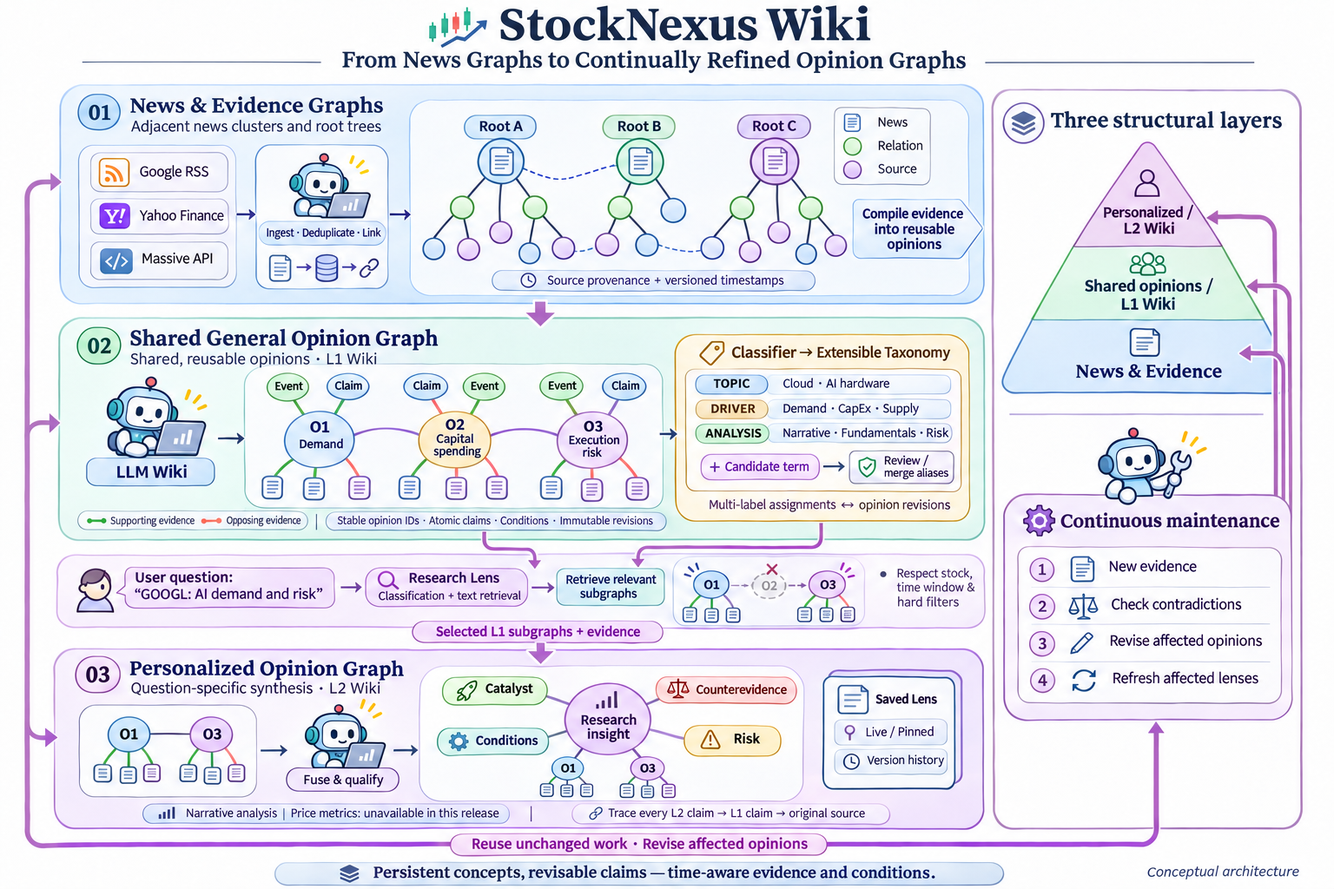
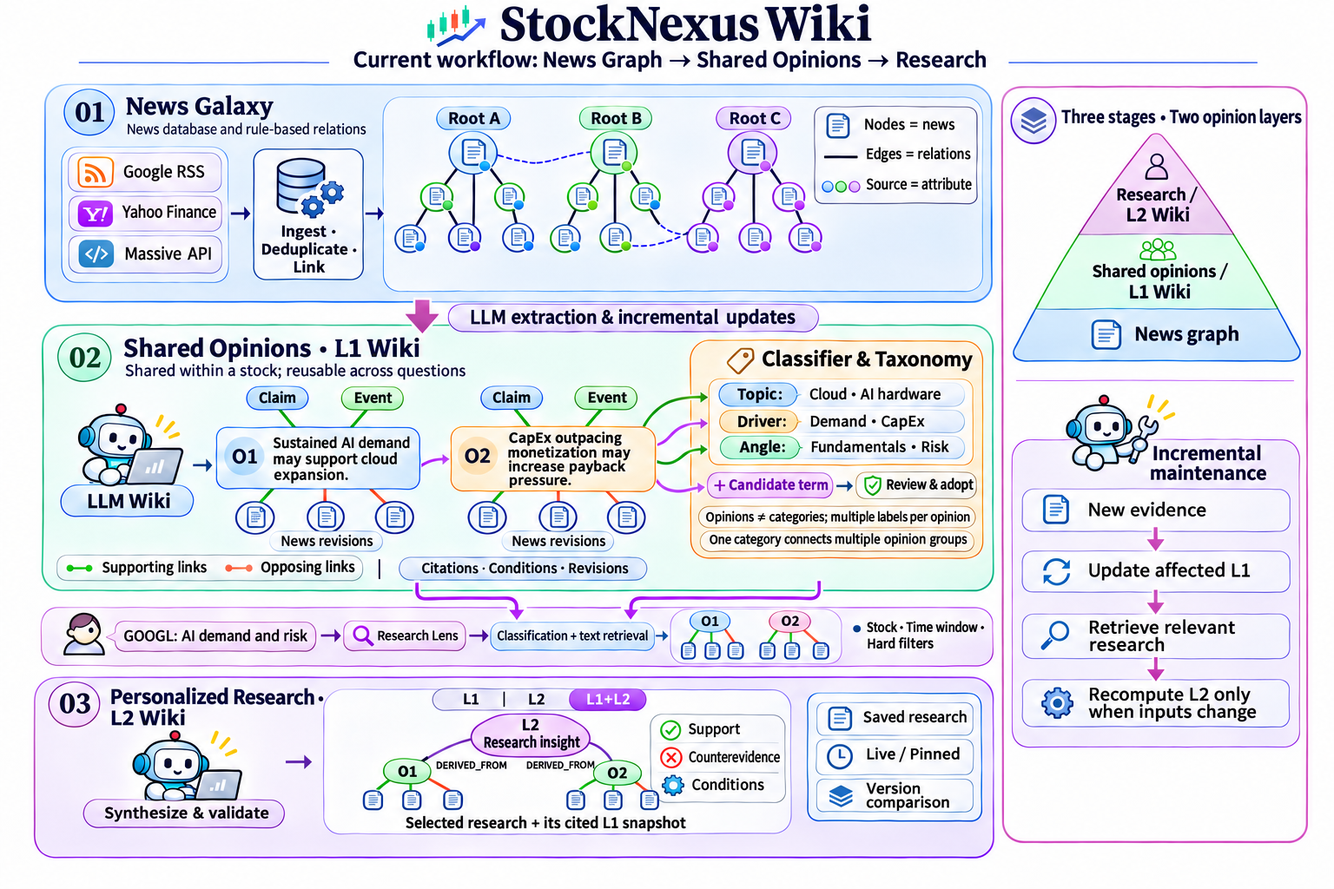
Explain cross-stock research blocking and simplify workflow diagrams

diff --git a/dist/research-view.js b/dist/research-view.js
@@ -9,7 +9,7 @@
  const open=node('button','研究問題 · L2');open.type='button';open.onclick=()=>show();open.id='researchOpen';$('wikiPanel').querySelector('.wiki-header').append(open);
  const panel=node('section',undefined,'research-panel');panel.id='researchPanel';panel.hidden=true;
  panel.innerHTML=`<button type="button" id="researchBack">← L1 整理設定</button><h2>我的研究</h2><p id="researchStock"></p>
- <form id="researchForm"><label for="researchQuestion">你想研究什麼？</label><input id="researchQuestion" required maxlength="2000" placeholder="例如：資料中心需求對獲利的影響" autocomplete="off"><label for="researchWindow">觀察期間</label><select id="researchWindow"><option value="30">最近 30 日</option><option value="90">最近 90 日</option><option value="365">最近一年</option></select><small id="researchModel"></small><span id="researchSubmitWrap" tabindex="0"><button id="researchSubmit" class="wiki-primary">建立研究</button></span><div id="researchBusyTip" class="wiki-tip" role="tooltip" hidden></div></form>
+ <form id="researchForm"><label for="researchQuestion">你想研究什麼？</label><input id="researchQuestion" required maxlength="2000" placeholder="例如：資料中心需求對獲利的影響" autocomplete="off"><label for="researchWindow">觀察期間</label><select id="researchWindow"><option value="30">最近 30 日</option><option value="90">最近 90 日</option><option value="365">最近一年</option></select><small id="researchModel"></small><div id="researchAvailability" class="research-meta" role="status" aria-live="polite" hidden><span id="researchAvailabilityText"></span><div id="researchBlockers" hidden></div></div><span id="researchSubmitWrap" tabindex="0"><button id="researchSubmit" class="wiki-primary">建立研究</button></span><div id="researchBusyTip" class="wiki-tip" role="tooltip" hidden></div></form>
  <p id="researchStatus" role="status" aria-live="polite"></p><h3>已保存的研究</h3><div id="researchSaved"></div><details><summary>觀點分類</summary><div id="researchTaxonomy"></div></details>`;
  $('wikiControls').prepend(panel);
  const result=node('section',undefined,'research-result');result.id='researchResult';result.hidden=true;$('wikiLower').prepend(result);
@@ -17,16 +17,27 @@
  const layerMessage=(text,working=false,retry=false)=>{layerText.textContent=text;layerStatus.hidden=!text;layerStatus.setAttribute('aria-busy',String(working));layerText.classList.toggle('research-working',working);layerRetry.hidden=!retry;};
  let layerRequest=0,runRequest=0;
  let stock='',serial=0,runId=null,timer=null,availabilityTimer=null,tipTimer=null,busy=false,submitting=false,lastAvailability=null;
- const pending=new Map();let watching=null;
+ const pending=new Map(),drafts=new Map();let watching=null,availabilityError='',checking=false,availabilityRequest=0;
+ function rememberDraft(){if(stock)drafts.set(stock,{question:$('researchQuestion').value,window:$('researchWindow').value});}
  const status=text=>{$('researchStatus').textContent=text;};
  async function api(path,body){const r=await fetch('/api/wiki/research/'+path+(body===undefined?(path.includes('?')?'&':'?')+'instrument='+encodeURIComponent(stock):''),body===undefined?{}:{method:'POST',headers:{'Content-Type':'application/json'},body:JSON.stringify({...body,instrument:stock})});const v=await r.json();if(!r.ok)throw Error(v.error||'研究請求失敗');return v;}
  function clearTip(){clearTimeout(tipTimer);$('researchBusyTip').hidden=true;}
- function explain(){clearTip();if(busy)tipTimer=setTimeout(()=>{if(!busy)return;$('researchBusyTip').textContent='請先停止 L1 資料補足，再開始進階觀點分析。已保存的 L2 仍可閱讀。'+(lastAvailability?.instruments?.length?' 整理中：'+lastAvailability.instruments.join('、'):'');$('researchBusyTip').hidden=false;},550);}
+ function busyReason(){return availabilityError?'無法確認模型狀態，正在重新連線…':checking?'正在確認模型狀態…':busy?'L1 整理中：'+(lastAvailability?.instruments?.join('、')||'其他工作')+'。共用模型目前忙碌；完成或停止後即可建立研究。':'';}
+ function explain(){clearTip();if(busy&&!availabilityError&&!checking)tipTimer=setTimeout(()=>{if(!busy)return;$('researchBusyTip').textContent=busyReason()+' 可先停止 L1 資料補足；已保存的 L2 仍可閱讀。';$('researchBusyTip').hidden=false;},550);}
  for(const ev of ['pointerenter','focusin'])$('researchSubmitWrap').addEventListener(ev,explain);
  for(const ev of ['pointerleave','focusout'])$('researchSubmitWrap').addEventListener(ev,clearTip);
  $('researchSubmitWrap').addEventListener('keydown',e=>{if(e.key==='Escape')clearTip();});
- function syncButton(){ $('researchSubmit').setAttribute('aria-busy',String(submitting));$('researchSubmit').disabled=busy||submitting;$('researchSubmit').textContent=submitting?'分析中…':'建立研究';$('researchSubmit').classList.toggle('research-working',submitting);$('researchSubmitWrap').setAttribute('aria-describedby','researchBusyTip');if(!busy)clearTip();}
- async function availability(){const token=serial;try{const a=await api('availability');if(token!==serial)return;lastAvailability=a;busy=a.busy;if(a.active_job&&!pending.has(stock))pending.set(stock,a.active_job.id);if(pending.has(stock)&&watching!==pending.get(stock))track(pending.get(stock),token);syncButton();}catch(e){if(token!==serial)return;busy=true;syncButton();status(e.message);}finally{if(token===serial&&!panel.hidden)availabilityTimer=setTimeout(availability,2000);}}
+ function availabilityMessage(){
+  const message=busyReason(),box=$('researchAvailability');box.hidden=!message;$('researchAvailabilityText').textContent=message;box.setAttribute('aria-busy',String(checking));box.classList.toggle('research-working',checking);
+  const links=$('researchBlockers'),targets=busy&&!checking&&!availabilityError?(lastAvailability?.instruments||[]):[],stamp=targets.join('|')+(availabilityError?'error':'');
+  if(links.dataset.state!==stamp){links.dataset.state=stamp;links.replaceChildren();
+   for(const target of targets)links.append(button('查看 '+target,async()=>{rememberDraft();$('wikiInstrument').value=target;$('wikiSaved').value=target;await $('wikiSaved').onchange();}));
+   if(availabilityError)links.append(button('重新確認',()=>availabilityOnce()));
+  }
+  links.hidden=!links.children.length;
+ }
+ function syncButton(){ $('researchSubmit').setAttribute('aria-busy',String(submitting||checking));$('researchSubmit').disabled=busy||checking||submitting;$('researchSubmit').textContent=submitting?'分析中…':checking?'確認狀態…':'建立研究';$('researchSubmit').classList.toggle('research-working',submitting||checking);$('researchSubmitWrap').setAttribute('aria-describedby','researchAvailability researchBusyTip');availabilityMessage();if(!busy||availabilityError||checking)clearTip();}
+ async function availability(){const token=serial;try{await availabilityOnce();if(token!==serial)return;if(pending.has(stock)&&watching!==pending.get(stock))track(pending.get(stock),token);}catch(e){/* Availability owns its visible error; polling will recover. */}finally{if(token===serial&&!panel.hidden){clearTimeout(availabilityTimer);availabilityTimer=setTimeout(availability,2000);}}}
  async function loadRun(id,animate=false,valid=()=>true){const token=serial,request=++runRequest,r=await api('run?id='+encodeURIComponent(id));if(token!==serial||request!==runRequest||!valid()||r.bundle.lens.instrument!==stock)return;runId=id;layerMessage('');wiki.setResearch(r,id,animate);render(r);}
  function render(r){
   result.hidden=false;result.replaceChildren();$('wikiLower').classList.add('research-visible');
@@ -48,18 +59,18 @@
   const token=serial,r=await api('lenses');if(token!==serial)return;const box=$('researchSaved');box.replaceChildren();
   if(!r.lenses.length)box.append(node('p','尚未保存研究。'));
   for(const s of r.lenses){const section=node('section');section.append(button(s.lens.query,()=>loadRun(s.run_id)),node('small',s.mode==='pinned'?'固定快照':({fresh:'已更新',stale:'有新資料',failed:'更新失敗'})[s.refresh_state]));
-   if(s.mode==='live')section.append(button('更新',async()=>{await availabilityOnce();if(busy){status('請先停止 L1 資料補足，再更新研究。');return;}const token=serial,j=await api('refresh',{lens_id:s.id,expected_revision:s.revision});if(token!==serial)return;if(j.status==='unchanged')status('證據未變，已沿用結果，沒有呼叫模型。');else{submitting=true;syncButton();track(j.job_id,token);}}));
+   if(s.mode==='live')section.append(button('更新',async()=>{await availabilityOnce();if(busy){status(busyReason());return;}const token=serial,j=await api('refresh',{lens_id:s.id,expected_revision:s.revision});if(token!==serial)return;if(j.status==='unchanged')status('證據未變，已沿用結果，沒有呼叫模型。');else{submitting=true;syncButton();track(j.job_id,token);}}));
    if(s.history.length>1)section.append(details('歷史版本',s.history.slice().reverse().map((id,i)=>button(i?'較早版本 '+(s.history.length-i):'目前版本',()=>loadRun(id)))),button('比較上一版',async()=>{const token=serial,[a,b]=await Promise.all([api('run?id='+s.run_id),api('run?id='+s.history.at(-2))]);if(token!==serial)return;await loadRun(s.run_id);if(token!==serial)return;const before=new Set(b.result.claims.map(c=>c.statement)),after=new Set(a.result.claims.map(c=>c.statement));const diff=details('與上一版比較',[node('p','新增／修訂'),...a.result.claims.filter(c=>!before.has(c.statement)).map(c=>node('p',c.statement)),node('p','不再出現'),...b.result.claims.filter(c=>!after.has(c.statement)).map(c=>node('p',c.statement))]);diff.open=true;result.prepend(diff);}));box.append(section);
   }
  }
  async function terms(){const token=serial,t=await api('taxonomy');if(token!==serial)return;const box=$('researchTaxonomy');box.replaceChildren();for(const term of t.terms){const b=button(term.label+' · '+(term.opinion_ids?.length||0)+' 組',()=>{$('wikiLayer').value='L1';$('wikiLayer').dispatchEvent(new Event('change'));wiki.filterTerm(term.id);});const dot=node('i',undefined,'wiki-dot');dot.style.background=term.color;b.prepend(dot);box.append(b);}}
  function track(job,token){pending.set(stock,job);watching=job;submitting=true;syncButton();watch(job,token);}
  async function watch(job,token){clearTimeout(timer);if(token!==serial)return;try{const j=await api('job?id='+job);if(token!==serial)return;if(j.status==='completed'){pending.delete(stock);watching=null;await loadRun(j.payload.run_id,true);if(token!==serial)return;submitting=false;syncButton();status('研究完成；已驗證的 L2 觀點已加入共用圖譜。');await saved();}else if(['failed','interrupted','cancelled'].includes(j.status)){pending.delete(stock);watching=null;submitting=false;syncButton();status('研究未完成：'+(j.error||j.status)+'。原有結果已保留。');}else{status(j.status==='queued'?'等待模型工作槽…':'正在整合觀點與反證…');timer=setTimeout(()=>watch(job,token),2000);}}catch(e){if(token===serial){watching=null;submitting=pending.has(stock);syncButton();status(e.message);}}}
- async function availabilityOnce(){const token=serial,a=await api('availability');if(token!==serial)return;lastAvailability=a;busy=a.busy;syncButton();}
- async function show(){layerMessage('');const next=$('wikiInstrument').value;if(next!==stock){runId=null;result.replaceChildren();result.hidden=true;$('researchSaved').replaceChildren();$('researchTaxonomy').replaceChildren();$('researchQuestion').value='';stock=next;}serial++;clearTimeout(timer);watching=null;clearTimeout(availabilityTimer);submitting=pending.has(stock);syncButton();panel.hidden=false;$('wikiControls').classList.add('research-mode');$('researchStock').textContent=stock;$('researchModel').textContent=$('wikiModel').selectedOptions[0]?.textContent||'gpt-6.1-sol · high';const token=serial;status('正在載入已保存研究與分類…');$('researchStatus').classList.add('research-working');availability();try{await Promise.all([saved(),terms()]);if(token===serial&&$('researchStatus').textContent==='正在載入已保存研究與分類…')status('');}catch(e){if(token===serial)status(e.message);}finally{if(token===serial)$('researchStatus').classList.remove('research-working');}if(token===serial)$('researchQuestion').focus();}
+ async function availabilityOnce(){const token=serial,request=++availabilityRequest;try{const a=await api('availability');if(token!==serial||request!==availabilityRequest)return;lastAvailability=a;busy=a.busy;checking=false;availabilityError='';if(a.active_job&&!pending.has(stock))pending.set(stock,a.active_job.id);syncButton();}catch(e){if(token===serial&&request===availabilityRequest){lastAvailability=null;busy=true;checking=false;availabilityError=e.message;syncButton();}throw e;}}
+ async function show(){layerMessage('');const next=$('wikiInstrument').value;if(next!==stock){rememberDraft();runId=null;result.replaceChildren();result.hidden=true;$('researchSaved').replaceChildren();$('researchTaxonomy').replaceChildren();stock=next;const draft=drafts.get(stock);$('researchQuestion').value=draft?.question||'';$('researchWindow').value=draft?.window||'30';}serial++;clearTimeout(timer);watching=null;clearTimeout(availabilityTimer);submitting=pending.has(stock);checking=true;availabilityError='';lastAvailability=null;busy=false;syncButton();panel.hidden=false;$('wikiControls').classList.add('research-mode');$('researchStock').textContent=stock;$('researchModel').textContent=$('wikiModel').selectedOptions[0]?.textContent||'gpt-6.1-sol · high';const token=serial;status('正在載入已保存研究與分類…');$('researchStatus').classList.add('research-working');availability();try{await Promise.all([saved(),terms()]);if(token===serial&&$('researchStatus').textContent==='正在載入已保存研究與分類…')status('');}catch(e){if(token===serial)status(e.message);}finally{if(token===serial)$('researchStatus').classList.remove('research-working');}if(token===serial)$('researchQuestion').focus();}
  $('researchBack').onclick=()=>{panel.hidden=true;$('wikiControls').classList.remove('research-mode');clearTimeout(availabilityTimer);clearTip();};
- $('researchForm').onsubmit=async e=>{e.preventDefault();if(submitting)return;const token=serial;submitting=true;syncButton();status('正在確認研究工作狀態…');try{await availabilityOnce();if(token!==serial)return;if(busy){submitting=false;syncButton();status('請先停止 L1 資料補足，再開始進階分析。');return;}status('準備研究條件與證據…');const [model,reasoning_effort]=($('wikiModel').value||'gpt-6.1-sol|high').split('|');const j=await api('query',{query:$('researchQuestion').value,lookback_days:Number($('researchWindow').value),model,reasoning_effort});if(token!==serial)return;track(j.job_id,token);}catch(e){if(token===serial){submitting=false;syncButton();status(e.message);}}};
- window.addEventListener('atlas-wiki-stock',()=>{serial++;layerRequest++;runRequest++;layerMessage('');stock='';runId=null;clearTimeout(timer);clearTimeout(availabilityTimer);watching=null;panel.hidden=true;result.hidden=true;result.replaceChildren();$('wikiControls').classList.remove('research-mode');$('wikiLower').classList.remove('research-visible');});
+ $('researchForm').onsubmit=async e=>{e.preventDefault();if(submitting)return;const token=serial;submitting=true;syncButton();status('正在確認研究工作狀態…');try{await availabilityOnce();if(token!==serial)return;if(busy){submitting=false;syncButton();status(busyReason());return;}status('準備研究條件與證據…');const [model,reasoning_effort]=($('wikiModel').value||'gpt-6.1-sol|high').split('|');const j=await api('query',{query:$('researchQuestion').value,lookback_days:Number($('researchWindow').value),model,reasoning_effort});if(token!==serial)return;track(j.job_id,token);}catch(e){if(token===serial){submitting=false;syncButton();status(e.message);}}};
+ window.addEventListener('atlas-wiki-stock',()=>{rememberDraft();serial++;layerRequest++;runRequest++;layerMessage('');stock='';runId=null;clearTimeout(timer);clearTimeout(availabilityTimer);watching=null;panel.hidden=true;result.hidden=true;result.replaceChildren();$('wikiControls').classList.remove('research-mode');$('wikiLower').classList.remove('research-visible');});
  window.addEventListener('atlas-wiki-research-clear',()=>{layerRequest++;runRequest++;layerMessage('');runId=null;result.hidden=true;$('wikiLower').classList.remove('research-visible');});
  async function loadLayer(){
   const request=++layerRequest;runRequest++;

diff --git a/tests/browser_live_research_availability.py b/tests/browser_live_research_availability.py
@@ -1,0 +1,72 @@
+"""Live Chromium checks: no model jobs; isolates workspace writes; needs websocket-client."""
+import json,os,signal,subprocess,tempfile,time,urllib.request,pathlib,sys
+import websocket
+import argparse
+parser=argparse.ArgumentParser(description="Live News/Wiki interaction journey; workspace preference writes are isolated.")
+parser.add_argument("--url",default="http://127.0.0.1:8765/")
+args=parser.parse_args()
+with tempfile.TemporaryDirectory(prefix='wiki-feedback-') as tmp:
+ p=pathlib.Path(tmp);log=open(p/'chrome.log','w');proc=subprocess.Popen(['/usr/bin/chromium','--headless=new','--no-sandbox','--disable-dev-shm-usage','--window-size=1681,1000','--remote-debugging-port=0','--remote-allow-origins=*','--user-data-dir='+tmp,'about:blank'],stdout=log,stderr=log,start_new_session=True)
+ try:
+  for _ in range(100):
+   if (p/'DevToolsActivePort').exists():break
+   time.sleep(.05)
+  port=int((p/'DevToolsActivePort').read_text().splitlines()[0]);tabs=json.load(urllib.request.urlopen(f'http://127.0.0.1:{port}/json'));ws=websocket.create_connection(next(t['webSocketDebuggerUrl'] for t in tabs if t['type']=='page'),timeout=40,suppress_origin=True);serial=0
+  def call(method,params=None):
+   global serial
+   serial+=1;ws.send(json.dumps({'id':serial,'method':method,'params':params or {}}))
+   while True:
+    r=json.loads(ws.recv())
+    if r.get('id')==serial:return r.get('result',{})
+  def js(code):
+   r=call('Runtime.evaluate',{'expression':code,'returnByValue':True,'awaitPromise':True})
+   if 'exceptionDetails' in r:raise RuntimeError(r['exceptionDetails'])
+   return r.get('result',{}).get('value')
+  def wait(code,seconds=30):
+   end=time.monotonic()+seconds
+   while time.monotonic()<end:
+    if js(code):return
+    time.sleep(.05)
+   raise AssertionError(code)
+  def click(ident):
+   xy=js("(()=>{const e=document.getElementById("+json.dumps(ident)+");e.scrollIntoView({block:'center'});const r=e.getBoundingClientRect();return {x:r.x+r.width/2,y:r.y+r.height/2}})()")
+   for kind in ['mouseMoved','mousePressed','mouseReleased']:call('Input.dispatchMouseEvent',{'type':kind,**xy,'button':'left','clickCount':1})
+  call('Page.enable')
+  call('Page.addScriptToEvaluateOnNewDocument',{'source':"""window.probeWrites=[];window.probeErrors=[];window.addEventListener('error',e=>probeErrors.push(e.message));window.addEventListener('unhandledrejection',e=>probeErrors.push(String(e.reason)));const realFetch=window.fetch;window.fetch=(u,o)=>{if(o?.method==='POST'&&String(u)==='/api/workspace'){probeWrites.push(String(u));return Promise.resolve(new Response('{}',{status:200}));}if(o?.method&&o.method!=='GET'&&!['/api/cache/graph','/api/graph/preview'].includes(String(u))){probeErrors.push('Unexpected write '+u);return Promise.reject(Error('UI audit blocked write'));}return realFetch(u,o)};"""})
+  call('Page.navigate',{'url':args.url})
+  wait("typeof AtlasWiki!=='undefined'",45)
+  # Fail before interacting if the preference-write guard did not initialize.
+  assert js('Array.isArray(window.probeWrites)'), 'workspace write isolation not installed'
+  click('modeWiki')
+  wait("!document.getElementById('wikiPanel').hidden&&[...document.getElementById('wikiSaved').options].some(o=>o.value==='NASDAQ:TSM')",90)
+  def choose_stock(value):
+   index=js("[...document.getElementById('wikiSaved').options].findIndex(o=>o.value==="+json.dumps(value)+")")
+   assert index>=0
+   click('wikiSaved')
+   for key in ['Home']+['ArrowDown']*index+['Enter']:
+    for event in ['keyDown','keyUp']:call('Input.dispatchKeyEvent',{'type':event,'key':key})
+   wait("document.getElementById('wikiInstrument').value==="+json.dumps(value))
+  choose_stock('NASDAQ:TSM')
+  click('researchOpen')
+  wait("!document.getElementById('researchPanel').hidden&&!document.getElementById('researchAvailability').classList.contains('research-working')",45)
+  a=js("fetch('/api/wiki/research/availability?instrument=NASDAQ%3ATSM').then(r=>r.json())")
+  if a['busy']:
+   assert js("document.getElementById('researchSubmit').disabled&&!document.getElementById('researchAvailability').hidden")
+   for stock in a['instruments']:assert stock in js("document.getElementById('researchAvailability').textContent")
+   # True pointer navigation; all workspace writes isolated, no model operations.
+   js("document.getElementById('researchQuestion').value='AI 需求與風險';document.getElementById('researchBlockers').querySelector('button').id='liveBlocker'")
+   click('liveBlocker')
+   wait("document.getElementById('researchPanel').hidden")
+   assert js("document.getElementById('wikiInstrument').value")==a['instruments'][0]
+   choose_stock('NASDAQ:TSM');click('researchOpen')
+   wait("!document.getElementById('researchPanel').hidden&&!document.getElementById('researchAvailability').classList.contains('research-working')")
+   assert js("document.getElementById('researchQuestion').value==='AI 需求與風險'")
+  else:assert js("!document.getElementById('researchSubmit').disabled")
+  assert js('probeErrors.length===0'),js('probeErrors')
+  import base64
+  pathlib.Path('/tmp/research-availability-live.png').write_bytes(base64.b64decode(call('Page.captureScreenshot',{'format':'png'})['data']))
+  report={'availability':a,'visible_reason':js("document.getElementById('researchAvailability').textContent"),'button_disabled':js("document.getElementById('researchSubmit').disabled"),'model_actions':0,'workspace_writes_isolated':len(js('probeWrites'))}
+  pathlib.Path('/tmp/research-availability-live.json').write_text(json.dumps(report,ensure_ascii=False,indent=2))
+  print('PASS live cross-stock research availability',json.dumps(report,ensure_ascii=False),flush=True)
+ finally:
+  os.killpg(proc.pid,signal.SIGTERM);proc.wait(timeout=10)

diff --git a/tests/browser_research.py b/tests/browser_research.py
@@ -105,6 +105,32 @@ def main():
      js("$('researchOpen').click()")
      wait("!$('researchPanel').hidden&&$('researchTaxonomy').children.length>0")
      assert js("!$('researchInclude')&&!$('researchExclude')&&!$('researchTaxonomy').querySelector('input')")
+     wait("!$('researchSubmit').disabled")
+     # Another stock owns the global model slot while this stock is idle.
+     blocker=wiki.store('NASDAQ:GOOGL')
+     with blocker.connection() as db:db.execute("INSERT INTO jobs(id,created_at,updated_at,status,payload) VALUES ('blocker',?,?,'running','{}')",(now(),now()))
+     wait("$('researchSubmit').disabled")
+     assert js("!!$('researchAvailability')&&!$('researchAvailability').hidden&&$('researchAvailability').textContent.includes('NASDAQ:GOOGL')"), 'idle current stock must visibly name the other stock blocking L2 without hover'
+     assert js("!$('researchBlockers').hidden&&$('researchBlockers').textContent.includes('NASDAQ:GOOGL')"), 'provide navigation to the blocking stock'
+     js("$('researchQuestion').value='AI 需求與風險';$('researchWindow').value='90';$('researchBlockers').querySelector('button').id='fixtureBlocker'")
+     wait("[...$('wikiSaved').options].some(o=>o.value==='NASDAQ:GOOGL')")
+     click('fixtureBlocker')
+     wait("$('wikiInstrument').value==='NASDAQ:GOOGL'&&$('researchPanel').hidden")
+     choose('wikiSaved',js("[...$('wikiSaved').options].findIndex(o=>o.value==='NASDAQ:TSLA')"))
+     wait("$('wikiInstrument').value==='NASDAQ:TSLA'")
+     click('researchOpen');wait("!$('researchPanel').hidden&&!$('researchSubmit').classList.contains('research-working')")
+     assert js("$('researchQuestion').value==='AI 需求與風險'&&$('researchWindow').value==='90'"), 'viewing blocking work preserves the original research draft'
+     with blocker.connection() as db:db.execute("UPDATE jobs SET status='completed'")
+     wait("!$('researchSubmit').disabled")
+     assert js("$('researchAvailability').hidden&&$('researchBlockers').hidden"), 'finished work must release research without reloading'
+     # Availability failure is not an active L1 job, and recovery clears it.
+     js("window.availabilityFetch=fetch;window.availabilityOutage=true;window.fetch=(u,o)=>availabilityOutage&&String(u).includes('/research/availability?')?Promise.resolve(new Response(JSON.stringify({error:'Controlled availability outage'}),{status:503})):availabilityFetch(u,o)")
+     wait("$('researchSubmit').disabled")
+     assert js("$('researchAvailability').textContent.includes('無法確認')&&!$('researchAvailability').textContent.includes('整理中')&&$('researchBlockers').textContent.includes('重新確認')"), 'network failure must not pretend L1 is busy'
+     js('availabilityOutage=false')
+     wait("!$('researchSubmit').disabled")
+     assert js("$('researchAvailability').hidden"), 'availability recovery clears stale error'
+     print('PASS cross-stock busy visibility, release, availability outage and recovery',flush=True)
      with paused.connection() as db:db.execute("UPDATE jobs SET status='queued'")
      wait("$('researchSubmit').disabled")
      js("$('researchSubmitWrap').focus()")

diff --git a/tests/test_healthcheck.py b/tests/test_healthcheck.py
@@ -1,0 +1,31 @@
+"""Docker readiness must remain responsive independently of corpus size."""
+import json
+from pathlib import Path
+import re
+import threading
+import unittest
+from unittest.mock import Mock
+from urllib.request import urlopen
+import server
+
+
+class HealthcheckTests(unittest.TestCase):
+    def test_configured_probe_serves_without_scanning_news(self):
+        # Given corpus statistics are too costly/unavailable, the actual Docker
+        # probe must still check the serving process without visiting the corpus.
+        dockerfile = (Path(__file__).resolve().parents[1] / 'Dockerfile').read_text()
+        path = re.search(r"http://127\.0\.0\.1:8765(/[^']+)", dockerfile).group(1)
+        http = server.ThreadingHTTPServer(('127.0.0.1', 0), server.Handler)
+        http.store = Mock()
+        http.store.stats.side_effect = RuntimeError('Health probe scanned the corpus')
+        worker = threading.Thread(target=http.serve_forever, daemon=True)
+        worker.start()
+        try:
+            with urlopen(f'http://127.0.0.1:{http.server_port}{path}', timeout=2) as response:
+                self.assertEqual(response.status, 200)
+                self.assertIsInstance(json.load(response), dict)
+            http.store.stats.assert_not_called()
+        finally:
+            http.shutdown()
+            http.server_close()
+            worker.join()

diff --git a/spec/TESTING.md b/spec/TESTING.md
@@ -408,3 +408,15 @@ PYTHONPATH=.:tests python tests/browser_chat_language.py
 - `python3 spec/scripts/verify_docs.py`：PASS，37 份 spec Markdown 本地連結；額外檢查 README.md 與 docs/media/README.md 的本地連結全部存在。
 - `git diff --check`：PASS。README 使用 repo 相對路徑，圖檔一起提交；中文預設展示，英文 details 展開及直接連結。
 - 未驗證：GitHub 網頁實際展開渲染；無 UI／backend 行為變更，未重跑行為測試、重啟服務、修改 DB 或呼叫 Wiki 模型。
+
+## 2026-11-07 — L2 跨股票忙碌與狀態恢復
+
+- 正式重現：TSM 無 queued/running L1；`research/availability?instrument=NASDAQ:TSM` 回 busy=true、instruments=[NASDAQ:GOOGL]。GOOGL cb7b2bbc72bf4b68b243532033e4ef54 有近期 updated_at；全局模型槽守門正確，缺陷是操作旁沒有原因，只藏在 tooltip。
+- RED：`/usr/bin/python3 tests/browser_research.py` 新增別股 GOOGL 工作 fixture，在「idle current stock must visibly name the other stock blocking L2 without hover」失敗。初次使用環境 python3 缺 websocket，改用已有依賴的 /usr/bin/python3；不是產品故障。修正版首次測試又碰到初始化 checking，改為先等 ready 再加入阻擋工作，避免把初始載入誤判成忙碌。
+- GREEN：同指令 PASS。覆蓋真實 HTTP／Chromium 的跨股原因、前往股票／返回／草稿與期間保存、工作完成解除、availability 503 與恢復；既有建立研究／來源／live 保存／版本／desktop/mobile overflow 皆通過。使用 fixture runner，沒有真實模型呼叫。
+- 正式操作：`/usr/bin/python3 tests/browser_live_research_availability.py --url https://ubuntu.tail9e662c.ts.net:8765/` PASS。攔截 workspace 寫入並拒絕模型寫入；實際點擊到 TSM 研究入口，當時 availability=false，建立按鈕 enabled。跨股忙碌／跳轉是在隔離 HTTP 測試驗證，不能說成正式仍忙碌時也重跑成功。
+- 使用者在部署前已取消 GOOGL L1（15:19:58 UTC）；部署前快照無活動 L1，v588。安全邊界檢查亦確認無 running 研究才停容器，不復活取消工作。最後保留 v588／done604／cancelled，全部原 Wiki 版本未倒退；無 migration 或清庫。
+- 第一輪部署的 `/api/status` 健康探測失敗：實測全庫統計 3.364 秒，超過內部 timeout=3。`tests/test_healthcheck.py` 從實際 Dockerfile 讀探測路徑，給不可用 stats；舊路徑 RED，新 `/api/capabilities` GREEN（1 test），確認不掃描資料庫。這是 HTTP serving readiness，不宣稱 DB 或模型供應商可用；統計 API 保留。
+- 最後容器 2026-11-07 15:24:01 UTC 啟動 healthy，served research-view.js 與原始碼 byte 相同；capabilities HTTP 200／0.003469 秒。回退映像 `news-atlas:pre-l2-availability-20261107`；回退不覆蓋資料庫。
+- 另觀察到部署後外部發起的 GOOGL L2 工作因「缺少比較基線，不可宣稱動能變化」失敗；不是本測試建立，未放寬驗證或付費重試。按鈕恢復不代表所有研究推論都能通過證據檢查。
+- 中英文 PNG 目視確認移除限制／警語旁註；核心新聞屬性、具體觀點與分類、選取 L2 引用圖保留。`node --check dist/research-view.js`、spec 37 份連結與 `git diff --check` PASS；未重跑完整 backend suite。

diff --git a/spec/RESEARCH_LAYERS.md b/spec/RESEARCH_LAYERS.md
@@ -23,7 +23,7 @@
 
 使用者確認白底、柔和配色、圓角框、AI 插畫、節點簇與清晰箭頭的構圖符合產品概念。三層金字塔是 **News／Evidence → 共享通用 L1 → 客製 L2**；不改程式的兩個觀點層命名，Classifier／Taxonomy 仍是支援元件。圖上 Root Trees 是新聞分組示意，不能把 News 規則邊當成已驗證的支持／因果關係。
 
-[README](../README.md) 提供 [中文圖](../docs/media/stocknexus-architecture-zh-TW.png)／[英文圖](../docs/media/stocknexus-architecture-en.png)。圖必須與第一版限制並列：確定性 Lens、分類＋文字檢索、候選詞受控審核、價格／敘事基線缺口；持續累積不等於保證正確。維護回路是新增證據、檢查反證、修訂受影響觀點與刷新研究，不許把 L2 推論當 L1 外部證據。這次只更新介紹與圖，不宣稱新增 runtime 能力。
+[README](../README.md) 提供 [中文圖](../docs/media/stocknexus-architecture-zh-TW.png)／[英文圖](../docs/media/stocknexus-architecture-en.png)。技術文件保留第一版限制（介紹圖不放限制旁註）：確定性 Lens、分類＋文字檢索、候選詞受控審核、價格／敘事基線缺口；持續累積不等於保證正確。維護回路是新增證據、檢查反證、修訂受影響觀點與刷新研究，不許把 L2 推論當 L1 外部證據。這次只更新介紹與圖，不宣稱新增 runtime 能力。
 
 ## 現況與整合
 
@@ -123,3 +123,9 @@ python3 scripts/wiki_taxonomy_upgrade.py --instrument NASDAQ:GOOGL --apply
 ## 2026-11-07：研究層的等待與切換
 
 由工具列切 L2 時，讀取／空結果／錯誤重試必須在主畫面可見，不依賴研究側欄是否開啟。無 L2 引導到「研究問題 · L2」，不要求重新整理 L1。讀取回覆同時核對股票、頁面 generation、層選擇與 run 請求序號；切回 L1／切歷史／換股票後的舊回應不能搶回畫面；開啟研究表單時清除已被新導覽取代的圖層 loading。來源和模型資料不因 UI 狀態改寫。實際操作與回歸見 TESTING。
+
+## 2026-11-07：跨股票模型槽的可見性
+
+研究可用性使用全局 L1／分類工作狀態；主畫面進度僅屬目前股票，不能推斷其他股票也閒置。當 TSM 閒置但 GOOGL 整理中，建立研究旁直接顯示 GOOGL 與共用模型忙碌原因，並可前往該股票；不靠停留 tooltip 才發現。前往後不自動停止工作，返回原股票保留研究草稿與觀察期間。忙碌解除由輪詢恢復按鈕，不建立額外模型工作。
+
+BDD：本股閒置／別股 busy → 顯示 ticker 與可操作導覽；別股 completed → 不重新開頁即解除；availability 503 → 明示無法確認及重試，不假稱 L1 忙碌；恢復 200 → 清除錯誤；晚回覆不覆蓋新股票／較新檢查。正式狀態查詢與隔離瀏覽器驗證分開記於 TESTING。

diff --git a/spec/CURRENT_STATE.md b/spec/CURRENT_STATE.md
@@ -2,7 +2,9 @@
 
 ## 有效交接：下一個 session 先讀這裡（2026-11-07）
 
-- **最新文件交付**：README 已加入中／英三層概念圖，對應 News→共享 L1→客製 L2；修正舊預覽／確認整理描述。2026-11-07 本輪從 `4e7ce10` 核對原始碼與限制，只改媒體／文件，未部署、未重跑 UI 或模型；圖不是完整能力驗收。見 RESEARCH_LAYERS 三層視覺模型及 TESTING。
+- **最新 UI／媒體交付**：L2 被別股 L1 阻擋時直接顯示股票與查看入口，區分連線失敗並自動恢復，跨股導覽保留研究草稿。中英文圖改為目前 UI 流程並移除限制旁註。15:24 UTC 修正版已部署 healthy、正式入口可按；詳見 TESTING。GOOGL L1 已在部署前取消，v588／done604 保留，勿依舊進度復活。另有外部 L2 因缺比較基線拒絕，未重試。
+
+- **前次文件交付**：README 已加入中／英三層概念圖，對應 News→共享 L1→客製 L2；修正舊預覽／確認整理描述。2026-11-07 本輪從 `4e7ce10` 核對原始碼與限制，只改媒體／文件，未部署、未重跑 UI 或模型；圖不是完整能力驗收。見 RESEARCH_LAYERS 三層視覺模型及 TESTING。
 
 - **產品目的**：累積同股票、與 query 無關的共享 L1 觀點；Classifier／Taxonomy 是索引支援，不是第三層。使用者研究問題產生 owner／Lens 範圍的 L2，整合催化、反證、條件與缺口，不只查核新聞日期。意圖與已取代設計見 [RESEARCH_LAYERS](RESEARCH_LAYERS.md)；目前只是第一條垂直流程，完整長期目標尚未全部驗收。
 - **成本與資料**：顯示預算／來源勾選／開頁不等於重新推論；分組方法共用資料身分及已完成成果。先救援相容資料，不預設清庫。快取、快照及 merge 邊界分別查 [CALCULATION_METHODS](CALCULATION_METHODS.md)、[DATA_MERGE](DATA_MERGE.md)。

diff --git a/spec/RUNTIME.md b/spec/RUNTIME.md
@@ -6,7 +6,7 @@
 
 `./run.sh up` 先互動確認、再建置及背景啟動，`status`／`logs`／`restart`／`down` 管理容器；`down` 保留資料。設定見根目錄 `.env.example` 和 `compose.yaml`。預設只發布 127.0.0.1:8765，`ATLAS_BIND=0.0.0.0` 開放區網；Docker 的主機與容器 port 都固定 8765；PORT 僅影響本機 Python。data bind mount 沿用既有資料，切換前停止本機 Python。容器非 root，UID/GID 預設由 run.sh 取得，直接 Compose 預設 1000:1000；選單可建立新的可寫資料目錄。不要以正式 DB 做容器測試。
 
-單一 SQLite 服務尚不支援多副本；擴容需先分離共享 DB、抓取佇列、限流及憑證。映像使用 Python 3.12 slim，僅複製 runtime 程式／schema／前端，健康檢查 `/api/status`，server.py 處理 SIGTERM 關閉服務。Python 直接接收停止訊號，不依賴 Docker init。此主機的 Snap Docker 在設定 no-new-privileges 時連 python --version 都回 operation not permitted，因此 Compose 不預設此選項；保留非 root、唯讀 root filesystem 與 cap_drop ALL。標準操作見 [WORKFLOWS.md](WORKFLOWS.md)。
+單一 SQLite 服務尚不支援多副本；擴容需先分離共享 DB、抓取佇列、限流及憑證。映像使用 Python 3.12 slim，僅複製 runtime 程式／schema／前端，健康檢查 `/api/capabilities`（只確認 HTTP 服務已啟動，不掃描全新聞庫；資料統計另查 `/api/status`），server.py 處理 SIGTERM 關閉服務。Python 直接接收停止訊號，不依賴 Docker init。此主機的 Snap Docker 在設定 no-new-privileges 時連 python --version 都回 operation not permitted，因此 Compose 不預設此選項；保留非 root、唯讀 root filesystem 與 cap_drop ALL。標準操作見 [WORKFLOWS.md](WORKFLOWS.md)。
 
 ## 啟動
 

diff --git a/spec/ai-dev-experience-preferences.md b/spec/ai-dev-experience-preferences.md
@@ -18,7 +18,7 @@
 
 ## 架構介紹視覺偏好（2026-11-07，active）
 
-使用者確認本專案三層架構圖的白底、柔和配色、圓角流程框、簡潔 AI 插畫、新聞簇／觀點子圖及清楚箭頭，適合 README 介紹；公開圖提供繁體中文與英文。此偏好只適用架構介紹圖，不要求把現有深色操作 UI 改成插畫風。驗證：兩語言檔案隨 repo 保存、README 可開啟，三層與程式 L1／L2 命名一致，未完成能力不畫成已驗收。契約見 RESEARCH_LAYERS 的三層視覺模型。
+使用者確認本專案三層架構圖的白底、柔和配色、圓角流程框、簡潔 AI 插畫、新聞簇／觀點子圖及清楚箭頭，適合 README 介紹；公開圖提供繁體中文與英文。此偏好只適用架構介紹圖，不要求把現有深色操作 UI 改成插畫風。後續明確修正：介紹圖僅保留流程、功能與必要概念，不把生成提示、限制清單、正確性免責或忙碌警語放進圖面；工程邊界保留於 spec，操作阻擋原因只在相關操作當下呈現。驗證：兩語言檔案隨 repo 保存、README 可開啟，三層與程式 L1／L2 命名一致，未完成能力不畫成已驗收。契約見 RESEARCH_LAYERS 的三層視覺模型。
 
 ## 先對齊概念，再選實作
 

diff --git a/spec/CHANGELOG.md b/spec/CHANGELOG.md
@@ -1,5 +1,12 @@
 # 變更與驗證 log
 
+## 2026-11-07 — L2 跨股票忙碌提示與精簡架構圖
+
+- TSM 閒置但 GOOGL L1 正常工作時，全局模型槽正確阻擋新研究；舊 UI 僅在 tooltip 提示，造成無故停用的體感。改為操作旁顯示佔用股票、可前往查看，並保留各股票研究草稿。
+- 狀態讀取失敗、初次檢查與真正忙碌分開顯示；輪詢恢復清除錯誤，舊回覆不覆蓋較新檢查。
+- 中英文架構圖更新為實際 UI 的節點／分類／選取研究子圖，依使用者回饋移除警語及限制旁註。
+- 無 schema 或資料變更，模型佇列規則不放寬。部署發現全庫統計健康探測逾時，改用既有輕量 capabilities；BDD 與部署證據見 TESTING。
+
 ## 2026-11-07 — README 中英文架構圖
 
 - 加入三層概念圖：News／Evidence → 共享 L1／分類 → 研究導向 L2，兩語言 PNG 隨 repo 保存。

diff --git a/docs/media/README.md b/docs/media/README.md
@@ -15,3 +15,5 @@
 - 兩圖由內建 imagegen 依使用者確認的構圖製作，屬向量插畫風格的 PNG，不是可編輯 SVG。生成指令見 [architecture-prompts.md](architecture-prompts.md)。
 - 三層指 News → L1 → L2；Classifier／Taxonomy 是 L1 支援元件。圖示與連線為概念示意，不代表逐欄 DB schema、每個 root 都符合抽取條件，或已驗證的市場結論。
 - 維護箭頭是更新調度，不是 L2 回灌成新聞。候選詞需審核；價格與語意解析等實作限制與 README／RESEARCH_LAYERS 同步。
+
+2026-11-07 更新：兩圖依目前 UI 修正新聞節點／連線／來源屬性、具體觀點與多標籤、目前選取研究的 L1 快照疊圖。依使用者回饋移除圖上警語與限制旁註，只保留核心流程；技術邊界查 spec。
